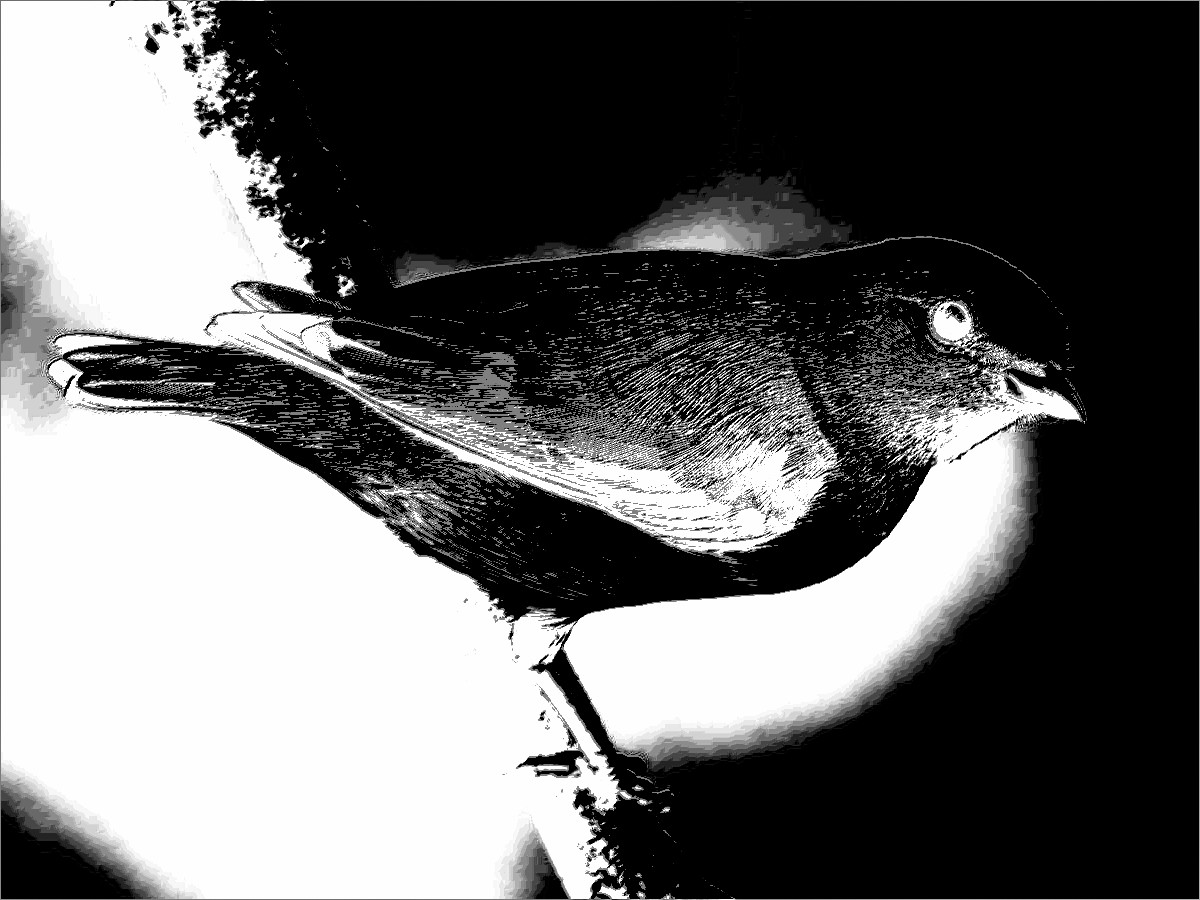
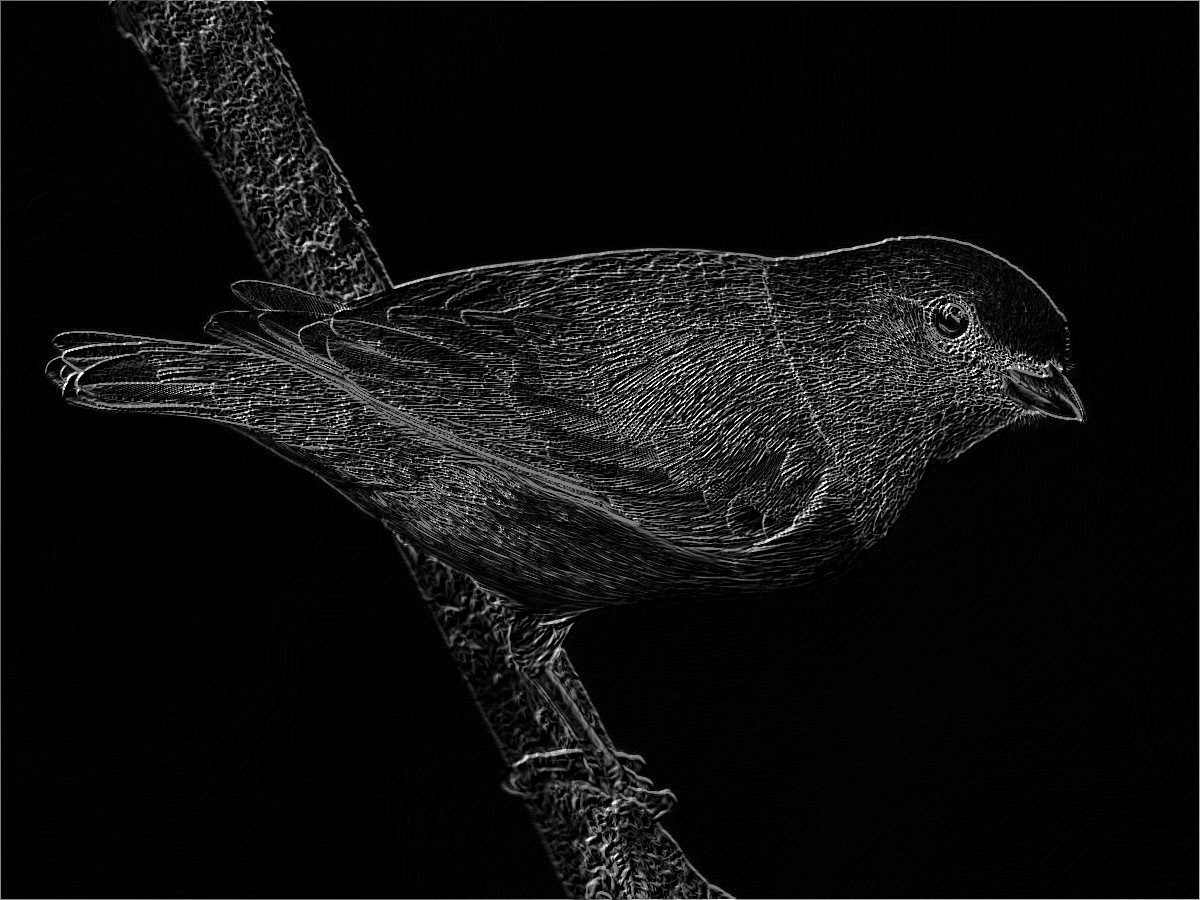
feat: adiciona modificações em sobel para se integrar ao driver

diff --git a/src/main.c b/src/main.c
@@ -19,7 +19,7 @@ unsigned char* convert_to_grayscale(const char* input_path, int* width, int* hei
 
 
 
-void driver(const int8_t* kernel, const int8_t* region, int8_t* result, int size, int opcode);
+void driver( int8_t* kernel,  int8_t* region, int8_t* result, int size, int opcode);
 
 // extern void mmap_setup();
 // extern void driver(int8_t *matrixA, int8_t *matrixB, int8_t *matrixR, int size, int op_opcode);
@@ -130,7 +130,7 @@ void show_menu() {
     printf("0 - Voltar ao menu principal\n");
 }
 
-void driver(const int8_t* kernel, const int8_t* region, int8_t* result, int size, int opcode) {
+void driver( int8_t* kernel,  int8_t* region, int8_t* result, int size, int opcode) {
         if(size == 1){
             int sum = 0;
             for (int i = 0; i < 3; i++) {
@@ -138,7 +138,7 @@ void driver(const int8_t* kernel, const int8_t* region, int8_t* result, int size
                     sum += kernel[i * 3 + e] * region[i * 3 + e];
                 }
             }
-        
+            
             if (sum >= 127) {
                 result[0] = 127;
             } else if (sum <= 0) {
@@ -299,85 +299,88 @@ void apply_sobel_3x3(unsigned char* gray_img, unsigned char* output, int width, 
     };
     int8_t sobel_y_kernel_3x3[] = {
         -1, -2, -1,
-         0, 0, 0,
-         1, 2, 1
+         0,  0,  0,
+         1,  2,  1
     };
 
-    int size = 3;
-    int border = size / 2;
+    int kernel_s = 3; // Renomeado de 'size' para evitar conflito com parâmetro do driver
+    int border = kernel_s / 2;
 
     for (int y = border; y < height - border; y++) {
         for (int x = border; x < width - border; x++) {
-            int region[9]; // 3x3
+            int8_t region_s8[9]; // Região 3x3 como int8_t
             int idx = 0;
             for (int ky = -border; ky <= border; ky++) {
                 for (int kx = -border; kx <= border; kx++) {
-                    region[idx++] = gray_img[(y + ky) * width + (x + kx)];
+                    // Converter pixel da imagem (0-255) para int8_t (-128 a 127)
+                    region_s8[idx++] = (int8_t)(gray_img[(y + ky) * width + (x + kx)] - 128);
                 }
             }
 
-            int8_t result_x = 0, result_y = 0;
-            // Assuming the driver function handles the convolution
-            // and the opcode '1' signifies this type of operation.
-            driver(sobel_x_kernel_3x3, region, &result_x, size, 1);
-            driver(sobel_y_kernel_3x3, region, &result_y, size, 1);
+            int8_t gx_result_array[9]; 
+            int8_t gy_result_array[9]; 
+            
+            
+            driver(sobel_x_kernel_3x3, region_s8, gx_result_array, 1, 2); 
+            driver(sobel_y_kernel_3x3, region_s8, gy_result_array, 1, 2); 
 
-            // Calculate gradient magnitude
-            // G = sqrt(Gx^2 + Gy^2)
-            // The C driver clamps Gx and Gy results to [0,255].
-            int8_t magnitude = (int)sqrt((double)result_x * result_x + (double)result_y * result_y);
+            int8_t gx = gx_result_array[0];
+            int8_t gy = gy_result_array[0];
 
-            // Clamp the magnitude to [0, 255] and assign to output
-            output[y * width + x] = (unsigned char)(magnitude > 255 ? 255 : (magnitude < 0 ? 0 : magnitude));  
+            // Calcular a magnitude. sqrt retorna double.
+            int8_t magnitude = (int)sqrt((double)gx * gx + (double)gy * gy);
+
+        
+            output[y * width + x] = magnitude;
         }
     }
 }
 
 void apply_sobel_5x5(unsigned char* gray_img, unsigned char* output, int width, int height) {
-   // Using Scharr 5x5 kernels as a common, optimized Sobel-like operator for 5x5
-   int8_t sobel_x_kernel_5x5[] = {
-    1, 2, 0, -2, -1,
-    4, 8, 0, -8, -4,
-    6, 12, 0, -12, -6,
-    4, 8, 0, -8, -4,
-    1, 2, 0, -2, -1
+    int8_t sobel_x_kernel_5x5[] = {
+        1,  2,  0,  -2, -1,
+        4,  8,  0,  -8, -4,
+        6, 12,  0, -12, -6,
+        4,  8,  0,  -8, -4,
+        1,  2,  0,  -2, -1
     };
 
     int8_t sobel_y_kernel_5x5[] = {
-    1, 4, 6, 4, 1,
-    2, 8, 12, 8, 2,
-    0, 0, 0, 0, 0,
-    -2, -8,-12, -8, -2,
-    -1, -4, -6, -4, -1
+        1,  4,  6,  4,  1,
+        2,  8, 12,  8,  2,
+        0,  0,  0,  0,  0,
+       -2, -8,-12, -8, -2,
+       -1, -4, -6, -4, -1
     };
 
-    int size = 5; // Kernel size
-    int border = size / 2; // 2 for 5x5
+    int kernel_s = 5; 
+    int border = kernel_s / 2; 
 
     for (int y = border; y < height - border; y++) {
-    for (int x = border; x < width - border; x++) {
-        int region[25]; // 5x5 = 25 elements
-        int idx = 0;
-        for (int ky = -border; ky <= border; ky++) {
-            for (int kx = -border; kx <= border; kx++) {
-                region[idx++] = gray_img[(y + ky) * width + (x + kx)];
+        for (int x = border; x < width - border; x++) {
+            int8_t region_s8[25]; // Região 5x5 como int8_t
+            int idx = 0;
+            for (int ky = -border; ky <= border; ky++) {
+                for (int kx = -border; kx <= border; kx++) {
+                    region_s8[idx++] = (int8_t)(gray_img[(y + ky) * width + (x + kx)] - 128);
+                }
             }
-        }
 
-        int8_t result_x = 0, result_y = 0;
-        driver(sobel_x_kernel_5x5, region, &result_x, size, 1);
-        driver(sobel_y_kernel_5x5, region, &result_y, size, 1);
+            int8_t gx_result_array[25]; // Array para receber o resultado de Gx
+            int8_t gy_result_array[25]; // Array para receber o resultado de Gy
 
-        // Calculate gradient magnitude: G = sqrt(Gx^2 + Gy^2)
-        // The C driver clamps Gx and Gy results to [0,255].
-        int8_t magnitude = (int)sqrt((double)result_x * result_x + (double)result_y * result_y);
+            driver(sobel_x_kernel_5x5, region_s8, gx_result_array, 3, 2);
+            driver(sobel_y_kernel_5x5, region_s8, gy_result_array, 3, 2); 
+            
+            int8_t gx = gx_result_array[0];
+            int8_t gy = gy_result_array[0];
 
-        // Clamp the magnitude to [0, 255] and assign to output
-        output[y * width + x] = (unsigned char)(magnitude > 255 ? 255 : (magnitude < 0 ? 0 : magnitude));
+            int8_t magnitude = (int)sqrt((double)gx * gx + (double)gy * gy);            
+            
+            output[y * width + x] = magnitude;
         }
     }
 }
-
 unsigned char* convert_to_grayscale(const char* input_path, int* width, int* height) {
     int channels;
     unsigned char* img = stbi_load(input_path, width, height, &channels, 1);
